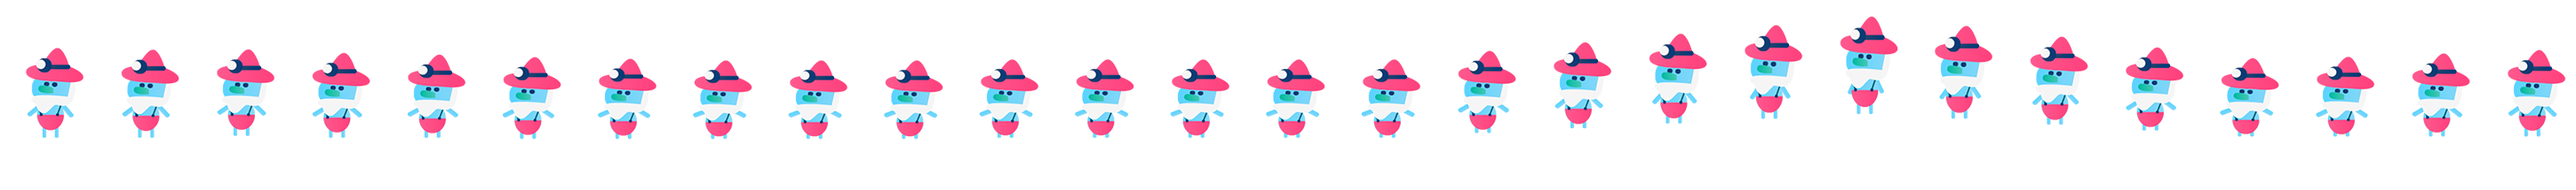
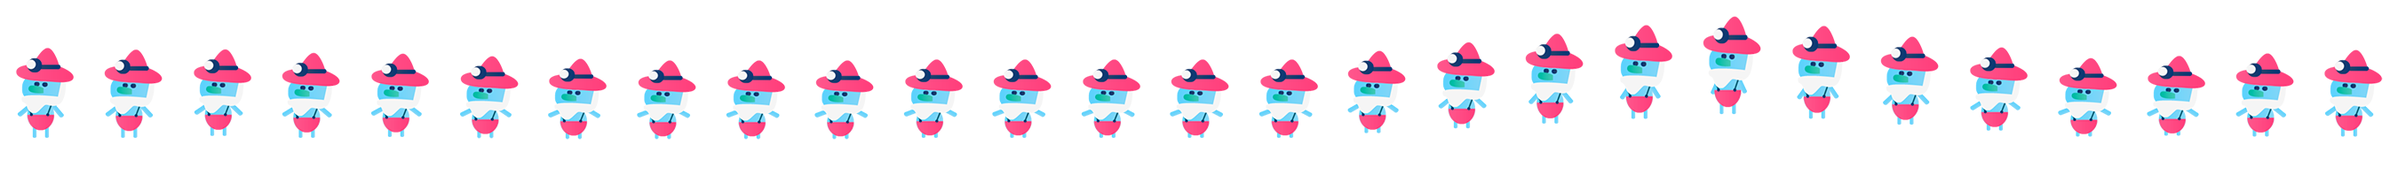
Add sprite animation

Changed region(s): [[0.0, 0.0837, 0.9956, 0.7256]]

diff --git a/app/assets/stylesheets/home_animation.scss b/app/assets/stylesheets/home_animation.scss
@@ -31,3 +31,20 @@
 #tub-repeat {
   transform: translateY(50%);
 }
+
+#dwarf {
+}
+
+#ink-wave {
+  width: 100px;
+  height: 100px;
+
+  position: fixed;
+  top: 470px;
+  left: 250px;
+
+  background: rgba(white, .95);
+  border-radius: 50%;
+
+  transform: scale(0);
+}

diff --git a/app/assets/stylesheets/static_pages.css.scss b/app/assets/stylesheets/static_pages.css.scss
@@ -295,7 +295,7 @@ background-image: image-url('menu_venue.png');
 .dwarf-jump {
   background-image: image-url('jump_all_s.png');
   position: absolute;
-  margin-left: 190px;
+  margin-left: 200px;
   top: 360px;
   height: 200px;
   width: 100px;
